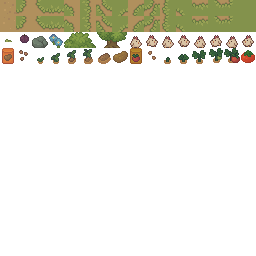
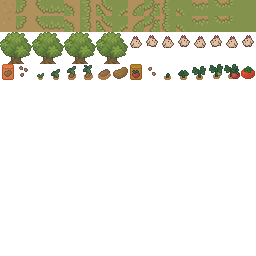
Add item rendering

Changed region(s): [[0.0, 0.125, 0.5938, 0.3125], [0.5938, 0.1875, 1.0, 0.3125]]

diff --git a/js/world/map.js b/js/world/map.js
@@ -5,6 +5,7 @@ class WorldMap {
     this.wgl = wgl;
     this.map2d = new Uint8Array(32 * 32);
     this.filter2d = new Uint8Array(32 * 32);
+    this.item2d = new Uint8Array(32 * 32);
 
     let img = document.getElementById("map");
 
@@ -31,6 +32,17 @@ class WorldMap {
     img.remove();
 
     this.filterMap();
+
+    for (let y = 0; y < 32; y++) {
+      for (let x = 0; x < 32; x++) {
+        this.item2d[32 * y + x] = 0;
+      }
+    }
+
+    this.item2d[32 * 5 + 8] = 1;
+    this.item2d[32 * 10 + 12] = 1;
+    this.item2d[32 * 7 + 7] = 1;
+    this.item2d[32 * 6 + 9] = 1;
   }
 
   filterMap() {
@@ -107,6 +119,77 @@ class WorldMap {
       txtre: this.wgl.createBuffer(txtres),
       numPoints: points.length / 2
     };
+  }
+
+  getItems(cameraPos) {
+    const du = 32.0/256.0;
+    const dv = 32.0/256.0;
+
+    const cx = Math.floor(cameraPos.u0);
+    const cy = Math.floor(cameraPos.u1);
+    const ox = cameraPos.u0 - cx;
+    const oy = cameraPos.u1 - cy;
+
+    let points = [];
+    let txtres = [];
+    for (let y = -12; y < 12; y+=1) {
+      for (let x = -24; x < 24; x+=1) {
+        const px = x - ox;
+        const py = y - oy;
+
+        const id = this.getItemAt(cx+x, cy+y);
+
+        if (id === 0) {
+          continue;
+        }
+
+        const u =  0.0/256.0;
+        const v = 32.0/256.0;
+
+        points.push(px - 1);
+        points.push(py - 1);
+        txtres.push(u);
+        txtres.push(v);
+
+        points.push(px - 1);
+        points.push(py + 1);
+        txtres.push(u);
+        txtres.push(v+dv);
+
+        points.push(px + 1);
+        points.push(py - 1);
+        txtres.push(u+du);
+        txtres.push(v);
+
+        points.push(px + 1);
+        points.push(py - 1);
+        txtres.push(u+du);
+        txtres.push(v);
+
+        points.push(px - 1);
+        points.push(py + 1);
+        txtres.push(u);
+        txtres.push(v+dv);
+
+        points.push(px + 1);
+        points.push(py + 1);
+        txtres.push(u+du);
+        txtres.push(v+dv);
+      }
+    }
+
+    return {
+      shape: this.wgl.createBuffer(points),
+      txtre: this.wgl.createBuffer(txtres),
+      numPoints: points.length / 2
+    };
+  }
+
+  getItemAt(cx, cy) {
+    if (cx >= 0 && cx < 32 && cy >= 0 && cy < 32) {
+      return this.item2d[32 * cy + cx];
+    }
+    return 0;
   }
 
   getFilterdAt(cx, cy) {

diff --git a/js/game/webgl.js b/js/game/webgl.js
@@ -295,6 +295,30 @@ class WebGLRenderer
 
     gl.drawArrays(gl.TRIANGLES, 0, chunks.numPoints);
 
+    // draw items
+    gl.bindTexture(gl.TEXTURE_2D, this.texTile);
+    gl.uniformMatrix4fv(
+        defaultProgram.uniformLocations.matrix,
+        false,
+        this.projectionMatrix);
+
+    let items = world.getItems(cameraPos)
+    gl.bindBuffer(gl.ARRAY_BUFFER, items.shape);
+    gl.vertexAttribPointer(
+      defaultProgram.attribLocations.vertex,
+      2, gl.FLOAT, false, 0, 0);
+    gl.enableVertexAttribArray(
+      defaultProgram.attribLocations.vertex);
+
+    gl.bindBuffer(gl.ARRAY_BUFFER, items.txtre);
+    gl.vertexAttribPointer(
+      defaultProgram.attribLocations.texCoord,
+      2, gl.FLOAT, false, 0, 0);
+    gl.enableVertexAttribArray(
+      defaultProgram.attribLocations.texCoord);
+
+    gl.drawArrays(gl.TRIANGLES, 0, items.numPoints);
+
     // draw character
     const idx = ((t_msec / 128) & 7) + 8*player.dir;
     gl.bindTexture(gl.TEXTURE_2D, this.texChar);
